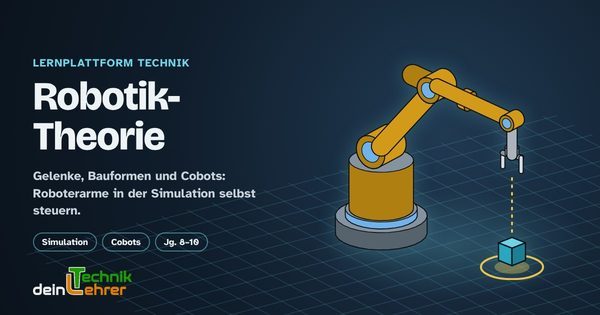
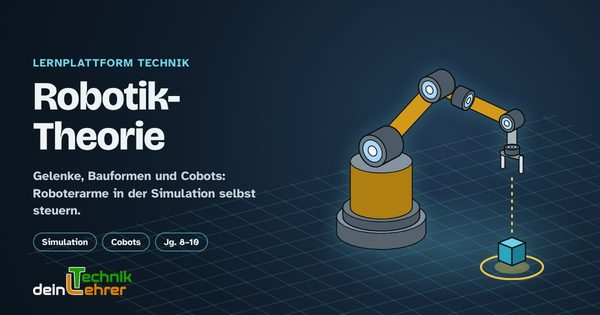
Robotik-Theorie: Gelenke deutlich erkennbar (Quellen e8dfb7f)
Claude-Session: https://claude.ai/code/session_01KjTLRWC4kcjaZHrBpALAoZ

Changed region(s): [[0.54, 0.2, 0.9, 0.7714], [0.57, 0.7714, 0.63, 0.8], [0.66, 0.7714, 0.69, 0.8]]

diff --git a/robotik-theorie/index.html b/robotik-theorie/index.html
@@ -2,7 +2,7 @@
 <html lang="de"><head><script>/* Lernplattformen auf GitHub Pages: Speichern ohne claude.ai */
 (function(){if(window.claude)return;var T={pdf:'application/pdf',txt:'text/plain;charset=utf-8',png:'image/png',jpg:'image/jpeg',jpeg:'image/jpeg',json:'application/json',csv:'text/csv;charset=utf-8',html:'text/html;charset=utf-8',docx:'application/vnd.openxmlformats-officedocument.wordprocessingml.document',xlsx:'application/vnd.openxmlformats-officedocument.spreadsheetml.sheet',ino:'text/plain;charset=utf-8'};
 var dl={save:function(o){return new Promise(function(res,rej){try{var n=(o&&o.filename)||'datei',x=(n.split('.').pop()||'').toLowerCase(),d=o.data,b=d instanceof Blob?d:new Blob([d],{type:T[x]||'application/octet-stream'});var u=URL.createObjectURL(b),a=document.createElement('a');a.href=u;a.download=n;a.rel='noopener';document.body.appendChild(a);a.click();setTimeout(function(){a.remove();URL.revokeObjectURL(u);},4000);res();}catch(e){rej({code:'failed',message:String(e)});}});}};
-window.claude={use:function(n){return Promise.resolve(n==='downloads'?dl:null);}};})();</script><meta property="og:type" content="website"><meta property="og:title" content="Robotik-Theorie"><meta property="og:description" content="Wie Roboter funktionieren: Gelenke und Freiheitsgrade, Bauformen und Arbeitsraum, Joint- und Koordinaten-Modus, Antriebe und Sensoren, Cobots und Roboter im All. Roboterarme selbst steuern, Würfel greifen und umsetzen. Badge RT. Technik, Jahrgang 8–10. Ergebnis als PDF."><meta property="og:url" content="https://deintechniklehrer.github.io/Lernplattformen/robotik-theorie/"><meta property="og:image" content="https://deintechniklehrer.github.io/Lernplattformen/vorschau/Vorschau_Robotik-Theorie.jpg?v=489292d8"><meta property="og:image:width" content="1200"><meta property="og:image:height" content="630"><meta name="twitter:card" content="summary_large_image"><meta name="description" content="Wie Roboter funktionieren: Gelenke und Freiheitsgrade, Bauformen und Arbeitsraum, Joint- und Koordinaten-Modus, Antriebe und Sensoren, Cobots und Roboter im All. Roboterarme selbst steuern, Würfel greifen und umsetzen. Badge RT. Technik, Jahrgang 8–10. Ergebnis als PDF."><script>try{var t=localStorage.getItem('lp-theme');if(t)document.documentElement.setAttribute('data-theme',t)}catch(e){}</script><meta charset="utf-8"><meta name="viewport" content="width=device-width,initial-scale=1,viewport-fit=cover">
+window.claude={use:function(n){return Promise.resolve(n==='downloads'?dl:null);}};})();</script><meta property="og:type" content="website"><meta property="og:title" content="Robotik-Theorie"><meta property="og:description" content="Wie Roboter funktionieren: Gelenke und Freiheitsgrade, Bauformen und Arbeitsraum, Joint- und Koordinaten-Modus, Antriebe und Sensoren, Cobots und Roboter im All. Roboterarme selbst steuern, Würfel greifen und umsetzen. Badge RT. Technik, Jahrgang 8–10. Ergebnis als PDF."><meta property="og:url" content="https://deintechniklehrer.github.io/Lernplattformen/robotik-theorie/"><meta property="og:image" content="https://deintechniklehrer.github.io/Lernplattformen/vorschau/Vorschau_Robotik-Theorie.jpg?v=6b05c86d"><meta property="og:image:width" content="1200"><meta property="og:image:height" content="630"><meta name="twitter:card" content="summary_large_image"><meta name="description" content="Wie Roboter funktionieren: Gelenke und Freiheitsgrade, Bauformen und Arbeitsraum, Joint- und Koordinaten-Modus, Antriebe und Sensoren, Cobots und Roboter im All. Roboterarme selbst steuern, Würfel greifen und umsetzen. Badge RT. Technik, Jahrgang 8–10. Ergebnis als PDF."><script>try{var t=localStorage.getItem('lp-theme');if(t)document.documentElement.setAttribute('data-theme',t)}catch(e){}</script><meta charset="utf-8"><meta name="viewport" content="width=device-width,initial-scale=1,viewport-fit=cover">
 <title>Robotik-Theorie</title>
 <link rel="stylesheet" href="../assets/fonts/fonts.css">
 <style>
@@ -824,6 +824,23 @@ rect.rtg-link,rect.rtg-link2{fill:var(--rt-link2);stroke:var(--rt-out);stroke-wi
 .rtg-cbase{fill:var(--rt-cobw);stroke:var(--rt-out);stroke-width:1.4}
 .rtg-cobot{stroke:var(--rt-cobw)}
 .rtg-link{stroke:var(--rt-cobw)}
+
+/* Gelenke gut erkennbar (Neufassung 28.11.2026 nachmittags): dunkles Gehäuse, heller Ring und Nabe, Beschriftung mit Linie */
+:root{--rt-jh:#34404a;--rt-jc:#4b5865;--rt-jr:#a9d6f5;--rt-jhub:#eef3f6;--rt-hlc:#ffb877}
+@media (prefers-color-scheme:dark){:root:not([data-theme="light"]){--rt-jh:#4d5a66;--rt-jc:#6a7884;--rt-jr:#a9d6f5;--rt-jhub:#f2f6f8;--rt-hlc:#ffc28a}}
+:root[data-theme="dark"]{--rt-jh:#4d5a66;--rt-jc:#6a7884;--rt-jr:#a9d6f5;--rt-jhub:#f2f6f8;--rt-hlc:#ffc28a}
+.rtg-jh{fill:var(--rt-jh);stroke:var(--rt-out);stroke-width:1.8;stroke-linejoin:round}
+.rtg-jc{fill:var(--rt-jc);stroke:var(--rt-out);stroke-width:1.5;stroke-linejoin:round}
+.rtg-jr{fill:var(--rt-jr);stroke:var(--rt-out);stroke-width:1.2;stroke-linejoin:round}
+.rtg-jhub{fill:var(--rt-jhub);stroke:var(--rt-out);stroke-width:1.2}
+.rtg-jring{fill:var(--rt-jh);stroke:var(--rt-out);stroke-width:1.6}
+.rtg-jring+.rtg-top{fill:var(--rt-jc)}
+.rtg-jh.rtg-hl,.rtg-jring.rtg-hl{fill:var(--rt-hl)}
+.rtg-jc.rtg-hl,.rtg-jring.rtg-hl+.rtg-top{fill:var(--rt-hlc)}
+.rtg-jr.rtg-hl{fill:#fff}
+.rtg-halo{fill:none;stroke:var(--rt-hl);stroke-width:12;stroke-opacity:.45;stroke-linejoin:round}
+.rtg-jll{stroke:var(--rt-ink);stroke-width:2;fill:none;opacity:.7}
+.rtg-jll.rtg-jlh{stroke:var(--rt-hl);opacity:1}
 .szl{list-style:none;padding:0;margin:8px 0;display:grid;gap:10px}.szl li{display:grid;grid-template-columns:auto 1fr;gap:12px;align-items:center}.szi{display:inline-flex;gap:6px;min-width:44px}.szl .szi{flex-direction:column;width:44px}.szi svg,.szi .gfb-ico{width:44px;height:44px;flex:none}
 </style>
 <script>/* Sicherheitszeichen aus dem Tech-Board (Repo Unterrichtsboard, tech-board/index.html, TB_RULES/TB_HAZ).
@@ -900,29 +917,51 @@ var RTG = (function () {
   function poly(pts) { return pts.map(function (p, i) { return (i ? 'L' : 'M') + p[0] + ' ' + p[1]; }).join('') + 'Z'; }
 
   /* Zeichenliste: Teile mit Tiefe, hinten zuerst */
-  function List() { this.a = []; }
+  function List() { this.a = []; this.seg = []; this.lab = []; this.blk = []; }
   List.prototype.push = function (d, html) { this.a.push([d, html]); };
-  List.prototype.out = function () { return this.a.sort(function (x, y) { return x[0] - y[0]; }).map(function (x) { return x[1]; }).join(''); };
-  function capsule(L, c, a, b, w, cls) { var A = P(c, a), B = P(c, b), d = (A[2] + B[2]) / 2, ww = r1(w * c.s);
+  /* Beschriftung J1… (seit 28.11.2026 nachmittags): Platz rund um das Gelenk, der am weitesten von Gliedern, Gelenken und
+     anderen Beschriftungen entfernt ist und im Bild bleibt; kurze Linie zum Gelenk. */
+  List.prototype.out = function (W, H) { var self = this, html = this.a.sort(function (x, y) { return x[0] - y[0]; }).map(function (x) { return x[1]; }).join(''), placed = [], t = '';
+    W = W || 480; H = H || 400;
+    function dseg(p, a, b) { var dx = b[0] - a[0], dy = b[1] - a[1], l2 = dx * dx + dy * dy, u = l2 ? Math.max(0, Math.min(1, ((p[0] - a[0]) * dx + (p[1] - a[1]) * dy) / l2)) : 0, x = a[0] + u * dx - p[0], y = a[1] + u * dy - p[1]; return Math.sqrt(x * x + y * y); }
+    this.lab.forEach(function (lb) { var best = null, bs = -1e9, k, R = 21;
+      for (k = 0; k < 16; k++) { var an = k / 16 * 2 * Math.PI + (lb.pref || 0), dd = lb.r + R + 12, q = [lb.A[0] + Math.cos(an) * dd, lb.A[1] + Math.sin(an) * dd], sc = 1e9;
+        self.seg.forEach(function (sg) { sc = Math.min(sc, dseg(q, sg[0], sg[1]) - sg[2] - R); });
+        self.blk.forEach(function (bl) { if (bl !== lb.blk) sc = Math.min(sc, Math.hypot(q[0] - bl[0], q[1] - bl[1]) - bl[2] - R); });
+        placed.forEach(function (pl) { sc = Math.min(sc, Math.hypot(q[0] - pl[0], q[1] - pl[1]) - 2 * R); });
+        var m = Math.min(q[0] - R, W - R - q[0], q[1] - R, H - R - q[1]); if (m < 0) sc += m * 4;
+        sc = Math.min(sc, 30) - k * 0.01 - (lb.pref != null ? Math.abs(Math.sin((an - lb.pref) / 2)) * 4 : 0);
+        if (sc > bs) { bs = sc; best = [q, an]; } }
+      var q = best[0], an = best[1], e = [lb.A[0] + Math.cos(an) * (lb.r + 2), lb.A[1] + Math.sin(an) * (lb.r + 2)], f = [q[0] - Math.cos(an) * (R - 2), q[1] - Math.sin(an) * (R - 2)];
+      placed.push(q);
+      t += '<path class="rtg-jll' + (lb.hl ? ' rtg-jlh' : '') + '" d="M' + r1(e[0]) + ' ' + r1(e[1]) + 'L' + r1(f[0]) + ' ' + r1(f[1]) + '"/><text class="rtg-jl rtg-jlc' + (lb.hl ? ' rtg-jlh' : '') + '" x="' + r1(q[0]) + '" y="' + r1(q[1]) + '" text-anchor="middle" dominant-baseline="central">' + lb.t + '</text>'; });
+    return html + t; };
+  function capsule(L, c, a, b, w, cls) { var A = P(c, a), B = P(c, b), d = (A[2] + B[2]) / 2, ww = r1(w * c.s); L.seg.push([A, B, ww / 2 + 1.5]);
     L.push(d, '<path class="rtg-out" stroke-width="' + r1(ww + 3) + '" d="M' + A[0] + ' ' + A[1] + 'L' + B[0] + ' ' + B[1] + '"/><path class="' + (cls || 'rtg-link') + '" stroke-width="' + ww + '" d="M' + A[0] + ' ' + A[1] + 'L' + B[0] + ' ' + B[1] + '"/>'); }
   function joint(L, c, p, r, hl, lab) { var A = P(c, p), rr = r1(r * c.s);
     L.push(A[2] + 0.5, '<circle class="rtg-joint' + (hl ? ' rtg-hl' : '') + '" cx="' + A[0] + '" cy="' + A[1] + '" r="' + rr + '"/>');
     if (lab) L.push(1e6, '<text class="rtg-jl' + (hl ? ' rtg-jlh' : '') + '" x="' + r1(A[0] - rr - 6) + '" y="' + r1(A[1] + 7) + '" text-anchor="end">' + lab + '</text>'); }
   function cylinder(L, c, cen, rad, h0, h1, cls, n) { n = n || 28; var bot = [], top = [], i, a;
     for (i = 0; i < n; i++) { a = i / n * 2 * Math.PI; bot.push(P(c, [cen[0] + rad * Math.cos(a), cen[1] + rad * Math.sin(a), h0])); top.push(P(c, [cen[0] + rad * Math.cos(a), cen[1] + rad * Math.sin(a), h1])); }
-    var hu = hull(bot.concat(top)), d = P(c, [cen[0], cen[1], (h0 + h1) / 2])[2];
+    var hu = hull(bot.concat(top)), d = P(c, [cen[0], cen[1], (h0 + h1) / 2])[2]; L.seg.push([P(c, [cen[0], cen[1], h0]), P(c, [cen[0], cen[1], h1]), r1(rad * c.s)]);
     L.push(d - 30, '<path class="' + (cls || 'rtg-base') + '" d="' + poly(hu) + '"/><path class="rtg-top" d="' + poly(top) + '"/>'); }
   /* Gelenkgehäuse als Trommel (seit 28.11.2026, Formensprache moderner Roboter): Achse ax, Radius rad, halbe Breite half.
      Die Stirnseite zum Betrachter bekommt einen Akzentring (hervorgehoben: rtg-hl). */
   function cross(a, b) { return [a[1] * b[2] - a[2] * b[1], a[2] * b[0] - a[0] * b[2], a[0] * b[1] - a[1] * b[0]]; }
   function nrmz(a) { var l = len(a) || 1; return [a[0] / l, a[1] / l, a[2] / l]; }
-  function drum(L, c, cen, ax, rad, half, cls, hl, lab) { ax = nrmz(ax); var t = Math.abs(ax[2]) < 0.9 ? [0, 0, 1] : [1, 0, 0], u = nrmz(cross(ax, t)), v = cross(ax, u), n = 26, i, a, e1 = [], e2 = [], ri = [];
-    var c1 = add(cen, mul(ax, half)), c2 = add(cen, mul(ax, -half)), toV = ax[0] * c.F[0] + ax[1] * c.F[1] + ax[2] * c.F[2], front = toV >= 0 ? c1 : c2;
-    for (i = 0; i < n; i++) { a = i / n * 2 * Math.PI; var o = add(mul(u, Math.cos(a)), mul(v, Math.sin(a))); e1.push(P(c, add(c1, mul(o, rad)))); e2.push(P(c, add(c2, mul(o, rad)))); ri.push(P(c, add(front, mul(o, rad * 0.62)))); }
-    var fr = toV >= 0 ? e1 : e2, d = P(c, cen)[2], rr = r1(rad * c.s), A = P(c, front);
-    L.push(d + 0.4, '<path class="' + (cls || 'rtg-drum') + '" d="' + poly(hull(e1.concat(e2))) + '"/><path class="' + (cls || 'rtg-drum') + ' rtg-cap" d="' + poly(fr) + '"/>' +
-      (Math.abs(toV) > 0.18 ? '<path class="rtg-ring' + (hl ? ' rtg-hl' : '') + '" d="' + poly(ri) + '"/>' : '<path class="rtg-band' + (hl ? ' rtg-hl' : '') + '" d="' + poly(hull(ri.concat(e2.map(function (q, k) { return ri[k]; })))) + '"/>'));
-    if (lab) { var P0 = P(c, cen); L.push(1e6, '<text class="rtg-jl' + (hl ? ' rtg-jlh' : '') + '" x="' + r1(P0[0] - rr - 8) + '" y="' + r1(P0[1] + 7) + '" text-anchor="end">' + lab + '</text>'); } }
+  /* Gelenk (Neufassung 28.11.2026 nachmittags, Rückmeldung Daniel „Gelenke gut erkennbar“): dunkles Gehäuse als Zylinder
+     mit Achse ax, Radius rad, halber Breite half; auf der Stirnseite zum Betrachter heller Ring und Nabe. Gelenke liegen immer
+     über den angrenzenden Gliedern (Tiefe + 80). Hervorgehoben: Gehäuse orange mit Leuchtsaum. lab = Beschriftung (J1 …). */
+  function drum(L, c, cen, ax, rad, half, cls, hl, lab) { ax = nrmz(ax); var t = Math.abs(ax[2]) < 0.9 ? [0, 0, 1] : [1, 0, 0], u = nrmz(cross(ax, t)), v = cross(ax, u), n = 30, i, a, e1 = [], e2 = [], ri = [], hb = [];
+    var c1 = add(cen, mul(ax, half)), c2 = add(cen, mul(ax, -half)), toV = ax[0] * c.F[0] + ax[1] * c.F[1] + ax[2] * c.F[2], front = toV >= 0 ? c1 : c2, fo = add(front, mul(ax, toV >= 0 ? 0.5 : -0.5));
+    for (i = 0; i < n; i++) { a = i / n * 2 * Math.PI; var o = add(mul(u, Math.cos(a)), mul(v, Math.sin(a))); e1.push(P(c, add(c1, mul(o, rad)))); e2.push(P(c, add(c2, mul(o, rad)))); ri.push(P(c, add(fo, mul(o, rad * 0.7)))); hb.push(P(c, add(fo, mul(o, rad * 0.32)))); }
+    var fr = toV >= 0 ? e1 : e2, d = P(c, cen)[2], rr = r1(rad * c.s), A = P(c, cen), sh = poly(hull(e1.concat(e2))), face = Math.abs(toV) > 0.22;
+    L.push(d + 80, (hl ? '<path class="rtg-halo" d="' + sh + '"/>' : '') + '<path class="rtg-jh' + (hl ? ' rtg-hl' : '') + '" d="' + sh + '"/><path class="rtg-jc' + (hl ? ' rtg-hl' : '') + '" d="' + poly(fr) + '"/>' +
+      (face ? '<path class="rtg-jr' + (hl ? ' rtg-hl' : '') + '" d="' + poly(ri) + '"/><path class="rtg-jhub" d="' + poly(hb) + '"/>' : '<path class="rtg-jr' + (hl ? ' rtg-hl' : '') + '" d="' + poly(hull(ri.concat(hb))) + '"/>'));
+    var blk = [A[0], A[1], Math.max(rr, r1(half * c.s))]; L.blk.push(blk);
+    if (lab) L.lab.push({ A: A, r: blk[2], t: lab, hl: hl, blk: blk }); }
+  /* J1: Drehkranz zwischen Sockel und Turm, Beschriftung links davon */
+  function j1lab(L, c, rad, z, hl, lab) { if (!lab) return; var A = P(c, [0, 0, z]); L.lab.push({ A: [A[0], A[1]], r: r1(rad * c.s), t: lab, hl: hl, pref: Math.PI }); }
   function box(L, c, mn, mx, cls, dd) { var x = [mn[0], mx[0]], y = [mn[1], mx[1]], z = [mn[2], mx[2]], v = [], i, j, k;
     for (i = 0; i < 2; i++) for (j = 0; j < 2; j++) for (k = 0; k < 2; k++) v.push([x[i], y[j], z[k]]);
     var F = [[0, 1, 3, 2], [4, 5, 7, 6], [0, 1, 5, 4], [2, 3, 7, 6], [0, 2, 6, 4], [1, 3, 7, 5]], nrm = [[-1, 0, 0], [1, 0, 0], [0, -1, 0], [0, 1, 0], [0, 0, -1], [0, 0, 1]], out = '';
@@ -963,8 +1002,8 @@ var RTG = (function () {
     if (o.path && o.path.length > 1) b += '<path class="rtg-path" d="' + o.path.map(function (p, i) { var A = P(c, p); return (i ? 'L' : 'M') + A[0] + ' ' + A[1]; }).join('') + '"/>';
     var c1 = Math.cos(q[0] * D), s1 = Math.sin(q[0] * D), side = [-s1, c1, 0], J = o.jl ? ['J1', 'J2', 'J3', 'J4'] : [];
     cylinder(L, c, [0, 0], 64, 0, 26, 'rtg-base');
-    cylinder(L, c, [0, 0], 46, 26, 36, 'rtg-ringb' + (o.hl === 0 ? ' rtg-hl' : ''));
-    cylinder(L, c, [0, 0], 40, 36, A4.h0 - 18, 'rtg-turret');
+    cylinder(L, c, [0, 0], 50, 26, 38, 'rtg-jring' + (o.hl === 0 ? ' rtg-hl' : ''));
+    cylinder(L, c, [0, 0], 40, 38, A4.h0 - 18, 'rtg-turret');
     capsule(L, c, K.S, K.E, 24, 'rtg-link');
     capsule(L, c, K.E, K.W, 19, 'rtg-link');
     capsule(L, c, K.W, K.T, 14, 'rtg-link2');
@@ -972,13 +1011,13 @@ var RTG = (function () {
     var gr = gripR(q) * D, gd = [Math.cos(gr), Math.sin(gr), 0], gap = o.grip ? 9 : 20, f1 = add(K.P, mul(gd, gap)), f2 = add(K.P, mul(gd, -gap));
     capsule(L, c, add(f1, [0, 0, 16]), f1, 5, 'rtg-finger'); capsule(L, c, add(f2, [0, 0, 16]), f2, 5, 'rtg-finger');
     capsule(L, c, add(f1, [0, 0, 16]), add(f2, [0, 0, 16]), 6, 'rtg-tool');
-    if (J[0]) { var B0 = P(c, [0, 0, 30]); L.push(1e6, '<text class="rtg-jl' + (o.hl === 0 ? ' rtg-jlh' : '') + '" x="' + r1(B0[0] - 64 * c.s - 8) + '" y="' + r1(B0[1] + 7) + '" text-anchor="end">J1</text>'); }
-    drum(L, c, K.S, side, 21, 22, 'rtg-drum', o.hl === 1, J[1]);
-    drum(L, c, K.E, side, 17, 19, 'rtg-drum', o.hl === 2, J[2]);
-    drum(L, c, K.T, [0, 0, 1], 12, 9, 'rtg-drum', o.hl === 3, J[3]);
+    j1lab(L, c, 50, 32, o.hl === 0, J[0]);
+    drum(L, c, K.S, side, 23, 20, '', o.hl === 1, J[1]);
+    drum(L, c, K.E, side, 19, 17, '', o.hl === 2, J[2]);
+    drum(L, c, add(K.T, [0, 0, 2]), [0, 0, 1], 14, 8, '', o.hl === 3, J[3]);
     if (o.cube) { var cu = o.cube, s = cu.s / 2, cz = cu.held ? K.P[2] - cu.s + 4 : cu.z, cx = cu.held ? K.P[0] : cu.x, cy = cu.held ? K.P[1] : cu.y;
       box(L, c, [cx - s, cy - s, cz], [cx + s, cy + s, cz + cu.s], 'rtg-cube', cu.held ? -2 : 0); }
-    return { vb: '0 0 480 400', body: b + L.out() + (o.axes ? axes(c, 150, true) : ''), K: K, c: c }; }
+    return { vb: '0 0 480 400', body: b + L.out(480, 400) + (o.axes ? axes(c, 150, true) : ''), K: K, c: c }; }
 
   /* ---------- Knickarm mit 6 Achsen ---------- */
   var A6 = { h: 150, L1: 170, L2: 150, L3: 60 };
@@ -993,22 +1032,21 @@ var RTG = (function () {
     if (o.floor !== false) b += floor(c, o.fl || { x0: -150, x1: 380, y0: -260, y1: 260 });
     if (o.path && o.path.length > 1) b += '<path class="rtg-path" d="' + o.path.map(function (p, i) { var A = P(c, p); return (i ? 'L' : 'M') + A[0] + ' ' + A[1]; }).join('') + '"/>';
     var cb = !!o.cobot, side = mv(K.M2, [0, 1, 0]), J = o.jl ? ['J1', 'J2', 'J3', 'J4', 'J5', 'J6'] : [], lk = cb ? 'rtg-cobot' : 'rtg-ind', dr = cb ? 'rtg-drum' : 'rtg-indd';
-    if (cb) { cylinder(L, c, [0, 0], 54, 0, 22, 'rtg-cbase'); cylinder(L, c, [0, 0], 40, 22, 32, 'rtg-ringb' + (o.hl === 0 ? ' rtg-hl' : '')); cylinder(L, c, [0, 0], 36, 32, A6.h - 22, 'rtg-cbase'); }
-    else { cylinder(L, c, [0, 0], 74, 0, 30, 'rtg-base'); cylinder(L, c, [0, 0], 58, 30, 42, 'rtg-ringb' + (o.hl === 0 ? ' rtg-hl' : '')); cylinder(L, c, [0, 0], 52, 42, A6.h - 24, 'rtg-indt'); }
-    var dEW = nrmz(sub(K.W, K.E));
-    if (!cb) capsule(L, c, add(K.E, mul(dEW, -48)), add(K.E, mul(dEW, 10)), 32, 'rtg-ind2');
-    capsule(L, c, K.S, K.E, cb ? 22 : 30, lk);
-    capsule(L, c, K.E, K.W, cb ? 18 : 22, lk);
-    capsule(L, c, K.W, K.F, cb ? 14 : 15, cb ? 'rtg-cobot' : 'rtg-link2');
+    if (cb) { cylinder(L, c, [0, 0], 52, 0, 20, 'rtg-cbase'); cylinder(L, c, [0, 0], 44, 20, 34, 'rtg-jring' + (o.hl === 0 ? ' rtg-hl' : '')); cylinder(L, c, [0, 0], 34, 34, A6.h - 24, 'rtg-cbase'); }
+    else { cylinder(L, c, [0, 0], 72, 0, 28, 'rtg-base'); cylinder(L, c, [0, 0], 62, 28, 44, 'rtg-jring' + (o.hl === 0 ? ' rtg-hl' : '')); cylinder(L, c, [0, 0], 50, 44, A6.h - 26, 'rtg-indt'); }
+    var dEW = nrmz(sub(K.W, K.E)), J4p = add(K.E, mul(dEW, 52)), dWF = nrmz(sub(K.F, K.W)), J6p = add(K.F, mul(dWF, -9));
+    capsule(L, c, K.S, K.E, cb ? 20 : 26, lk);
+    capsule(L, c, K.E, K.W, cb ? 16 : 20, lk);
+    capsule(L, c, K.W, J6p, cb ? 13 : 14, cb ? 'rtg-cobot' : 'rtg-link2');
     var gx = mv(K.M5, [1, 0, 0]), gz = mv(K.M5, [0, 0, 1]), gap = o.grip ? 8 : 18, f1 = add(K.F, mul(gx, gap)), f2 = add(K.F, mul(gx, -gap));
     capsule(L, c, f1, add(f1, mul(gz, 24)), 5, 'rtg-finger'); capsule(L, c, f2, add(f2, mul(gz, 24)), 5, 'rtg-finger'); capsule(L, c, f1, f2, 7, 'rtg-tool');
-    if (J[0]) { var B0 = P(c, [0, 0, 34]); L.push(1e6, '<text class="rtg-jl' + (o.hl === 0 ? ' rtg-jlh' : '') + '" x="' + r1(B0[0] - (cb ? 54 : 74) * c.s - 8) + '" y="' + r1(B0[1] + 7) + '" text-anchor="end">J1</text>'); }
-    drum(L, c, K.S, side, cb ? 22 : 28, cb ? 22 : 30, dr, o.hl === 1, J[1]);
-    drum(L, c, K.E, side, cb ? 18 : 22, cb ? 19 : 24, dr, o.hl === 2, J[2]);
-    drum(L, c, add(K.E, mv(K.M2, [0, 0, 60])), mv(K.M2, [0, 0, 1]), cb ? 15 : 17, 7, dr, o.hl === 3, J[3]);
-    drum(L, c, K.W, side, cb ? 14 : 14, cb ? 15 : 15, dr, o.hl === 4, J[4]);
-    drum(L, c, add(K.F, mv(K.M4, [0, 0, -8])), mv(K.M4, [0, 0, 1]), 11, 6, cb ? 'rtg-drum' : 'rtg-drumg', o.hl === 5, J[5]);
-    return { vb: '0 0 480 400', body: b + L.out(), K: K, c: c }; }
+    j1lab(L, c, cb ? 44 : 62, cb ? 27 : 36, o.hl === 0, J[0]);
+    drum(L, c, K.S, side, cb ? 23 : 27, cb ? 21 : 24, dr, o.hl === 1, J[1]);
+    drum(L, c, K.E, side, cb ? 19 : 22, cb ? 18 : 20, dr, o.hl === 2, J[2]);
+    drum(L, c, J4p, dEW, cb ? 15 : 17, cb ? 9 : 11, dr, o.hl === 3, J[3]);
+    drum(L, c, K.W, side, cb ? 14 : 15, cb ? 13 : 14, dr, o.hl === 4, J[4]);
+    drum(L, c, J6p, dWF, cb ? 12 : 12, 5, dr, o.hl === 5, J[5]);
+    return { vb: '0 0 480 400', body: b + L.out(480, 400), K: K, c: c }; }
 
   /* ---------- Bauformen ---------- */
   function scara(u, o) { o = o || {}; var c = o.c || cam(-35, 26, 0.6, 110, 255), L = new List(), b = floor(c, { x0: -90, x1: 300, y0: -230, y1: 230 }), h = 170, a1 = (-40 + 70 * Math.sin(u * 2 * Math.PI)), a2 = 60 * Math.sin(u * 2 * Math.PI + 1.2), zz = 30 + 40 * (0.5 + 0.5 * Math.cos(u * 4 * Math.PI));
